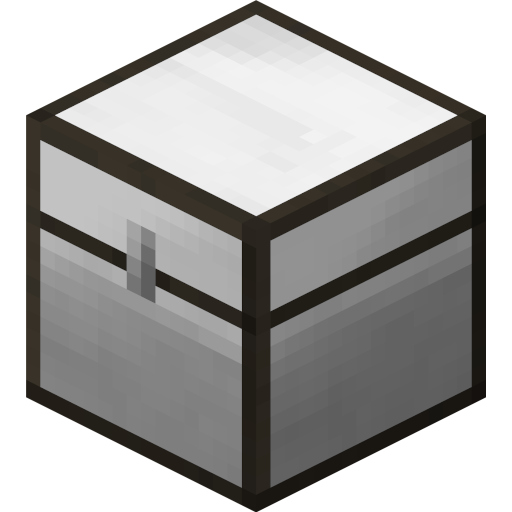
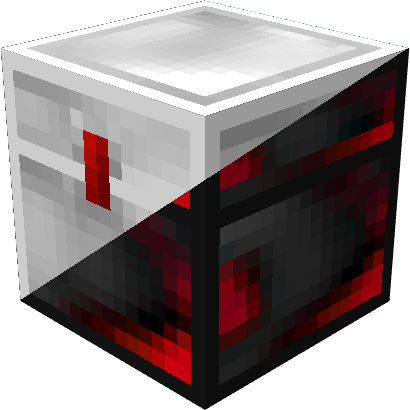
Release 1.0!

diff --git a/src/main/java/midford/reinforcedchest/ModModels.java b/src/main/java/midford/reinforcedchest/ModModels.java
@@ -18,22 +18,22 @@ public class ModModels implements ModelEntrypoint {
         // THIS IS ACCESSING TEXTURES FROM THE IRON CHEST MOD, REMEMBER TO CHANGE THE MOD ID IF YOU ADD CUSTOM BLOCK TEXTURES
         ModelHelper.setBlockModel(ModBlocks.reinforcedChest,() ->
                 new BlockModelHorizontalRotation<>(ModBlocks.reinforcedChest)
-                        .setTex(0, "ironchest:block/diamondchesttop", Side.TOP)
-                        .setTex(0, "ironchest:block/steelchestbottom", Side.BOTTOM)
-                        .setTex(0, "ironchest:block/steelchestfront", Side.NORTH)
-                        .setTex(0, "ironchest:block/steelchestside", Side.SOUTH)
-                        .setTex(0, "ironchest:block/steelchestside", Side.EAST)
-                        .setTex(0, "ironchest:block/steelchestside", Side.WEST)
+                        .setTex(0, "extendedchests:block/reinforcedchesttop", Side.TOP)
+                        .setTex(0, "extendedchests:block/reinforcedchestbottom", Side.BOTTOM)
+                        .setTex(0, "extendedchests:block/reinforcedchestfront", Side.NORTH)
+                        .setTex(0, "extendedchests:block/reinforcedchestside", Side.SOUTH)
+                        .setTex(0, "extendedchests:block/reinforcedchestside", Side.EAST)
+                        .setTex(0, "extendedchests:block/reinforcedchestside", Side.WEST)
 
         );
         ModelHelper.setBlockModel(ModBlocks.crystalChest,() ->
                 new BlockModelHorizontalRotation<>(ModBlocks.crystalChest)
-                        .setTex(0, "ironchest:block/ironchesttop", Side.TOP)
-                        .setTex(0, "ironchest:block/steelchestbottom", Side.BOTTOM)
-                        .setTex(0, "ironchest:block/steelchestfront", Side.NORTH)
-                        .setTex(0, "ironchest:block/steelchestside", Side.SOUTH)
-                        .setTex(0, "ironchest:block/steelchestside", Side.EAST)
-                        .setTex(0, "ironchest:block/steelchestside", Side.WEST)
+                        .setTex(0, "extendedchests:block/crystalchesttop", Side.TOP)
+                        .setTex(0, "extendedchests:block/crystalchestbottom", Side.BOTTOM)
+                        .setTex(0, "extendedchests:block/crystalchestfront", Side.NORTH)
+                        .setTex(0, "extendedchests:block/crystalchestside", Side.SOUTH)
+                        .setTex(0, "extendedchests:block/crystalchestside", Side.EAST)
+                        .setTex(0, "extendedchests:block/crystalchestside", Side.WEST)
 
         );
     }

diff --git a/src/main/java/midford/reinforcedchest/gui/ScreenReinforcedChest.java b/src/main/java/midford/reinforcedchest/gui/ScreenReinforcedChest.java
@@ -21,7 +21,7 @@ public class ScreenReinforcedChest extends ScreenContainerAbstract {
         GL11.glColor4f(1.0f, 1.0f, 1.0f, 1.0f);
         int x = (this.width - this.xSize) / 2;
         int y = (this.height - this.ySize) / 2;
-        this.mc.textureManager.loadTexture("/assets/reinforcedchest/textures/gui/containerExtraWide.png").bind();
+        this.mc.textureManager.loadTexture("/assets/extendedchests/textures/gui/containerExtraWide.png").bind();
         this.drawTexturedModalRect(x, y, 0, 0, 512, this.ySize, 1/512d, 1/256d);
     }
 }
